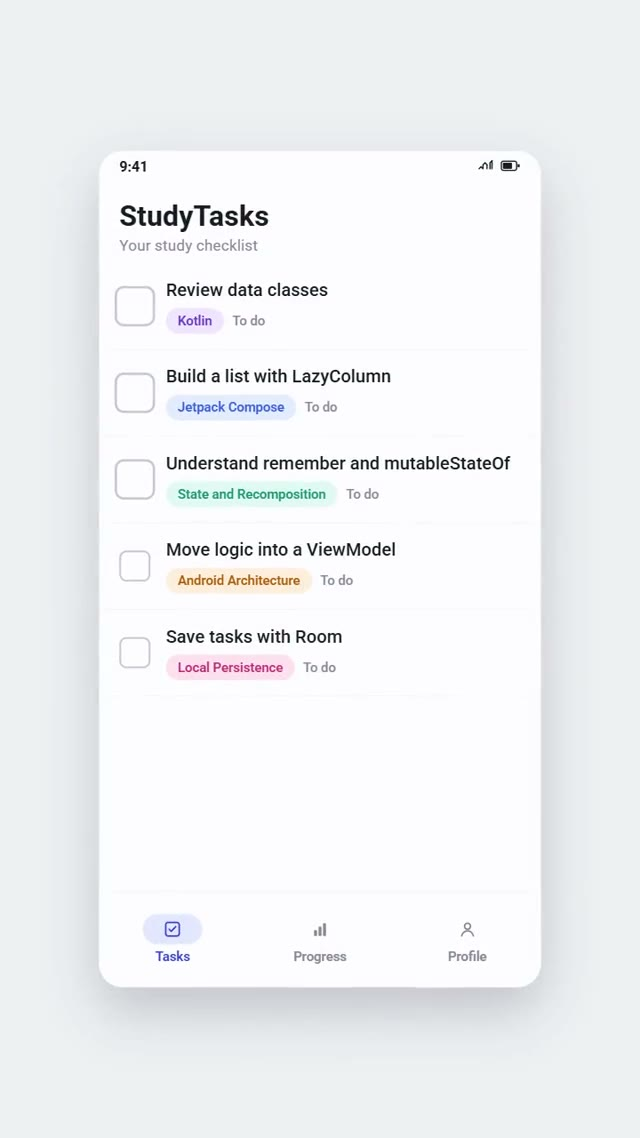
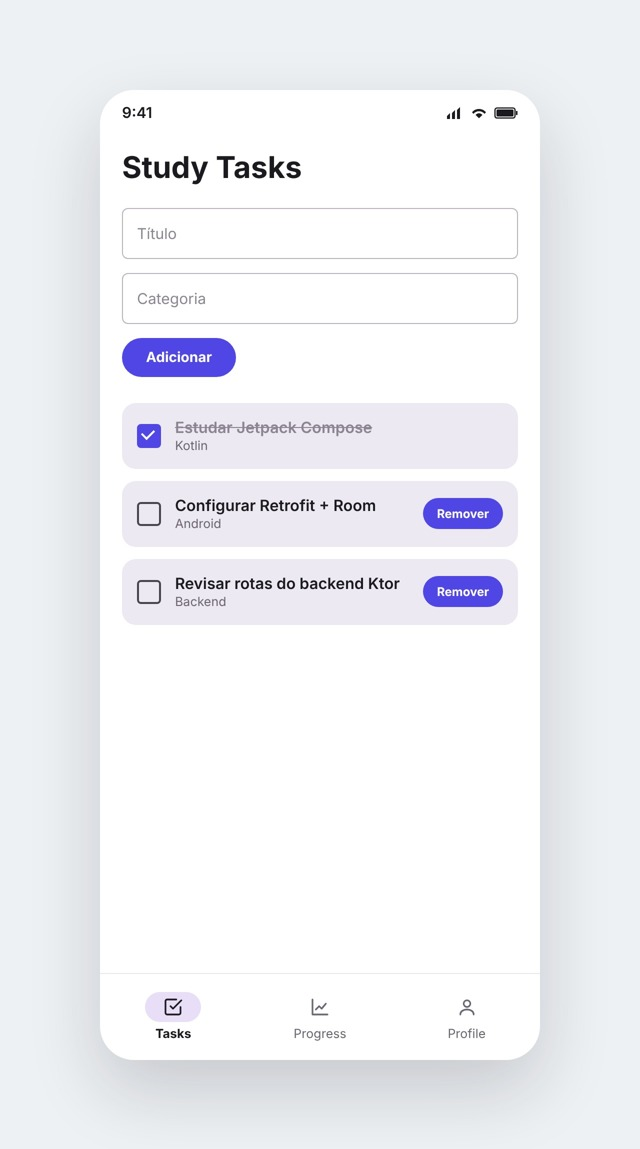
feat: atualiza card do StudyTaks com status concluído e nova poster
- Descrição reflete a arquitetura offline-first finalizada (Room +
  tratamento de erro), sem menção ao quiz removido do escopo
- Troca badge "Só código" por "APK disponível" e adiciona link
  "Baixar APK" pra release v1.0.0 do GitHub
- Adiciona Room ao stack listado
- Poster atualizado pra refletir a tela real do app (campos
  Título/Categoria, botão Adicionar, cards com Remover)

Claude-Session: https://claude.ai/code/session_01HHLKN8hFZb2JdVeXS8L8XK

diff --git a/index.html b/index.html
@@ -1150,19 +1150,20 @@
       <div class="card compact c4 reveal">
         <a class="card-link" href="https://github.com/RicardoJuliano/StudyTaks" target="_blank" rel="noopener" aria-label="Abrir repositório de StudyTaks"></a>
         <div class="shot">
-          <video class="lazy-video" src="video/studytaks.mp4" poster="img/studytaks-poster.jpg" loop muted playsinline preload="metadata" aria-label="Gravação de tela do app StudyTaks: checklist de estudo com tarefas e navegação inferior Tasks, Progress e Profile."></video>
+          <video class="lazy-video" src="video/studytaks.mp4" poster="img/studytaks-poster.jpg" loop muted playsinline preload="metadata" aria-label="Gravação de tela do app StudyTaks: checklist de estudo offline-first com tarefas e navegação inferior Tasks, Progress e Profile."></video>
           <div class="chrome"><span></span><span></span><span></span><span class="url">study-taks</span></div>
-          <span class="live code">Só código</span>
+          <span class="live">APK disponível</span>
         </div>
         <div class="meta">
           <h3>StudyTaks</h3>
           <dl class="facts">
             <div><dt>Problema</dt><dd>Acompanhar o que já foi estudado em um checklist.</dd></div>
-            <div><dt>O que foi construído</dt><dd>App Android que lista, cria, marca e remove tarefas por uma API própria em Ktor com MongoDB, publicada no Render com Docker. O projeto continua em andamento: cache offline com Room e a aba de quiz são os próximos passos.</dd></div>
+            <div><dt>O que foi construído</dt><dd>App Android completo, com API própria em Ktor + MongoDB publicada no Render. Lê sempre do cache local em Room e só escreve na API quando há conexão, sem fila de sincronização: uma falha de rede mostra erro e não aplica a mudança. Estados de loading e erro tratados em toda a tela.</dd></div>
           </dl>
-          <ul class="stack"><li>Kotlin</li><li>Jetpack Compose</li><li>Ktor</li><li>MongoDB</li><li>Docker</li></ul>
+          <ul class="stack"><li>Kotlin</li><li>Jetpack Compose</li><li>Room</li><li>Ktor</li><li>MongoDB</li><li>Docker</li></ul>
           <div class="links">
-            <a class="primary" href="https://github.com/RicardoJuliano/StudyTaks" target="_blank" rel="noopener">Ver código</a>
+            <a class="primary" href="https://github.com/RicardoJuliano/StudyTaks/releases/latest" target="_blank" rel="noopener">Baixar APK</a>
+            <a href="https://github.com/RicardoJuliano/StudyTaks" target="_blank" rel="noopener">Ver código</a>
           </div>
         </div>
       </div>
